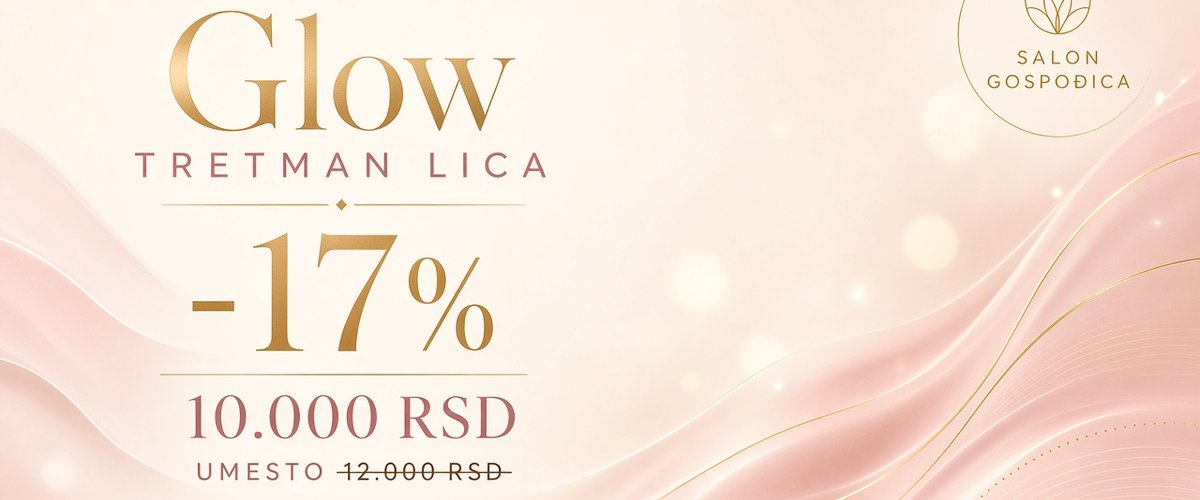
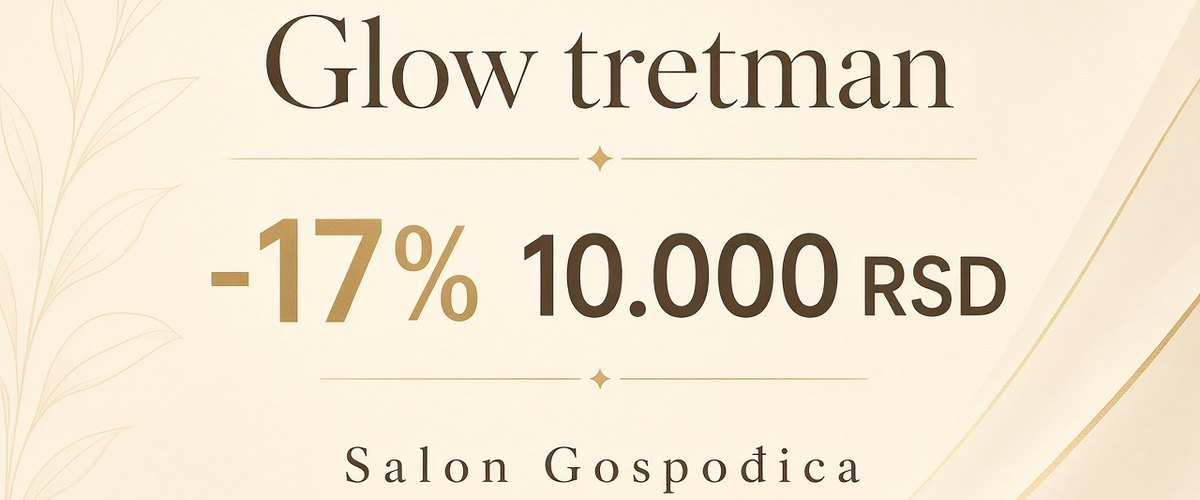
Make Akcije promo images match Usluge card size (1200x500), phone-first
Exact same 12:5 media ratio and card layout as services; regenerate wide banners instead of cropped posters.

diff --git a/styles.css b/styles.css
@@ -1032,46 +1032,129 @@ img.logo-mark { display: block; }
 }
 .service-icon { display: none; }
 
-
+/* Akcije cards — same media size as Usluge, phone-first */
+.promo-grid {
+  display: grid;
+  grid-template-columns: repeat(auto-fill, minmax(240px, 1fr));
+  gap: 1.25rem;
+}
 .promo-card {
+  position: relative;
+  display: flex;
+  flex-direction: column;
   padding: 0;
   overflow: hidden;
+  gap: 0;
+  background: var(--white, #fff);
+  border: 1px solid rgba(168, 152, 136, 0.2);
+  border-radius: var(--radius, 16px);
+  box-shadow: var(--shadow-sm, 0 4px 16px rgba(61,52,44,.06));
+  text-decoration: none;
+  color: inherit;
+  transition: box-shadow 0.25s ease, transform 0.25s ease;
+}
+.promo-card:hover {
+  transform: translateY(-2px);
+  box-shadow: var(--shadow, 0 12px 40px rgba(61,52,44,.08));
+  color: inherit;
 }
 .promo-media {
   aspect-ratio: 12 / 5;
+  width: 100%;
   overflow: hidden;
   background: var(--cream-dark, #efe8df);
-  margin: 0 0 0.85rem;
+  margin: 0;
+  flex: 0 0 auto;
 }
 .promo-media img {
   width: 100%;
   height: 100%;
   object-fit: cover;
+  object-position: center;
   display: block;
-  transition: transform 0.45s ease;
 }
-.promo-card:hover .promo-media img {
-  transform: scale(1.04);
+.promo-badge {
+  position: absolute;
+  top: 0.65rem;
+  right: 0.65rem;
+  z-index: 2;
+  padding: 0.28rem 0.65rem;
+  border-radius: 999px;
+  background: var(--espresso, #3d342c);
+  color: var(--ivory, #fffcf8);
+  font-size: 0.72rem;
+  font-weight: 600;
+  letter-spacing: 0.02em;
 }
-.promo-card > .promo-badge {
-  /* keep absolute but account for media */
+.promo-badge-soft {
+  background: var(--blush, #d4b5a5);
+  color: var(--espresso, #3d342c);
 }
-.promo-card .promo-loc,
-.promo-card h3,
-.promo-card > p,
-.promo-card .promo-price,
-.promo-card .promo-cta {
-  padding-left: 1.35rem;
-  padding-right: 1.35rem;
+.promo-loc {
+  margin: 0.9rem 1.15rem 0;
+  font-size: 0.68rem;
+  font-weight: 500;
+  letter-spacing: 0.14em;
+  text-transform: uppercase;
+  color: var(--taupe, #a89888);
 }
-.promo-card .promo-cta {
-  padding-bottom: 1.25rem;
+.promo-card h3 {
+  margin: 0.35rem 1.15rem 0;
+  font-family: var(--font-display, Georgia, serif);
+  font-size: 1.25rem;
+  font-weight: 550;
+  line-height: 1.25;
+  padding-right: 0.5rem;
+}
+.promo-card > p {
+  margin: 0.4rem 1.15rem 0;
+  font-size: 0.9rem;
+  color: var(--espresso-soft, #5c5046);
+}
+.promo-price {
+  margin: 0.45rem 1.15rem 0 !important;
+  display: flex;
+  flex-wrap: wrap;
+  align-items: baseline;
+  gap: 0.45rem;
+}
+.promo-now {
+  font-family: var(--font-display, Georgia, serif);
+  font-size: 1.15rem;
+  font-weight: 600;
+}
+.promo-was {
+  font-size: 0.85rem;
+  color: var(--taupe, #a89888);
+  text-decoration: line-through;
+}
+.promo-cta {
+  margin: 0.7rem 1.15rem 1.15rem;
+  font-size: 0.85rem;
+  font-weight: 500;
+  color: var(--gold, #b8976a);
 }
 .promo-card-featured {
-  border-color: rgba(184, 151, 106, 0.55);
-  box-shadow: 0 10px 36px rgba(61, 52, 44, 0.1);
+  border-color: rgba(184, 151, 106, 0.45);
 }
-.promo-card .promo-badge {
-  top: 1.1rem;
-  right: 1.1rem;
+.promo-note {
+  margin: 1.5rem 0 0;
+  text-align: center;
+  font-size: 0.82rem;
+  color: var(--taupe, #a89888);
 }
+@media (max-width: 520px) {
+  .promo-grid,
+  .services-grid {
+    grid-template-columns: 1fr;
+    gap: 1rem;
+  }
+  .promo-media,
+  .service-media {
+    aspect-ratio: 12 / 5;
+  }
+  .promo-card h3 {
+    font-size: 1.15rem;
+  }
+}
+
